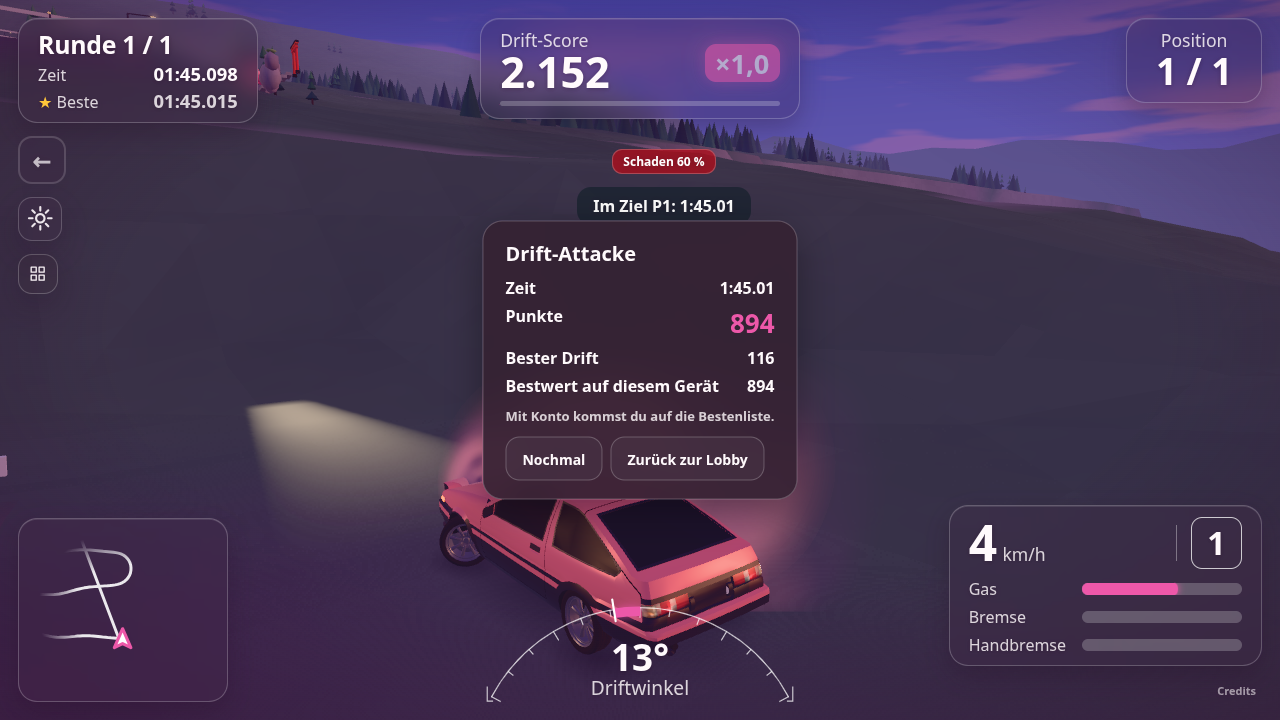
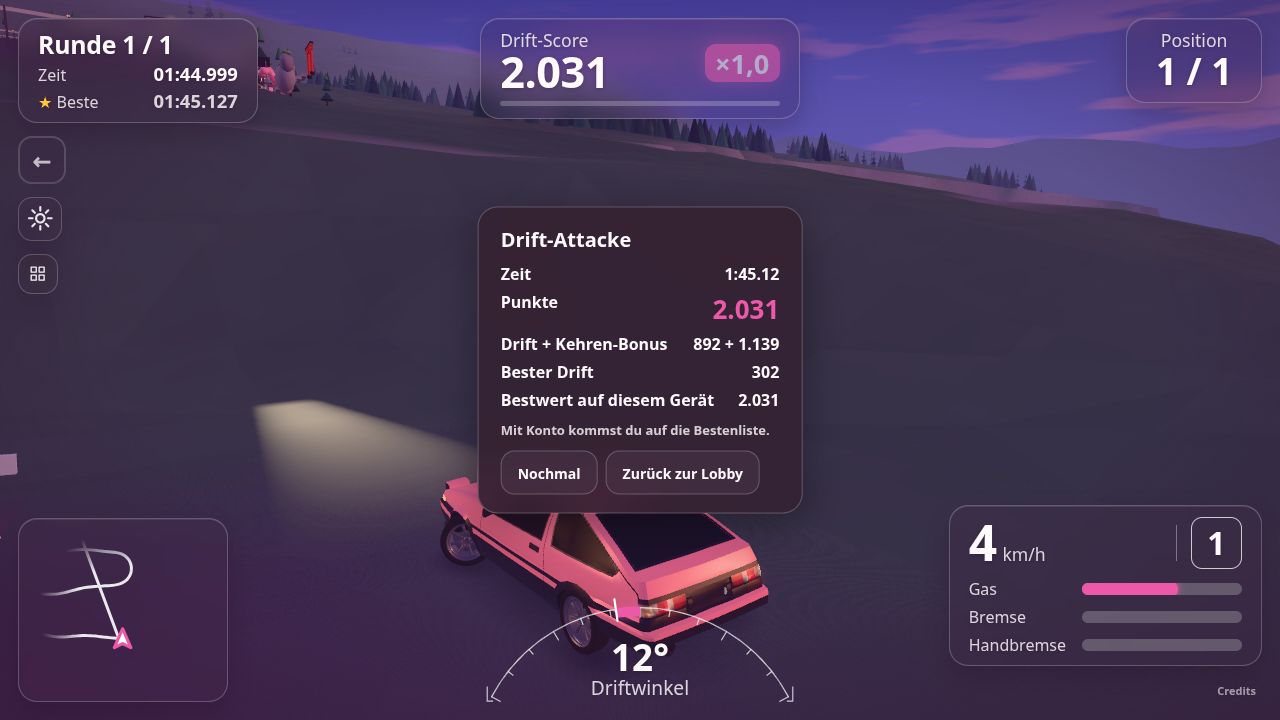
One number for a mode run: the server counts the clipping points' bonus (ZoneScore), the HUD follows the server's count in a mode run, the card explains it; only the card shows while it is open; STATE

diff --git a/game/main.js b/game/main.js
@@ -47,12 +47,12 @@ let creative = false, chDef = null, chRun = null, chStarted = false, chServer = 
 const de = params.get('lang') ? params.get('lang') === 'de' : navigator.language?.startsWith('de');
 const T = {
   en: { drift: 'DRIFT', score: 'Score', lost: 'Lost!', hand: 'HAND', brake: 'BRAKE', gas: 'GAS', rotate: 'Turn your phone to landscape', tip: 'Hold GAS, steer with the arrows, tap HAND to throw the tail out',
-    online: 'driving here', solo: 'Time trial', newDrift: 'new best drift', reset: 'Restart', tunedMark: 'tuned', paint: 'Paint', modesTitle: 'Game mode', modesSub: 'Choose how you drive the touge.', modesOpen: 'Modes (N)', modeFree: 'Free driving', modeFreeText: 'Drive about and meet the others on the plaza; the lobby.', modeDriftText: 'One run down the touge for points: clip the hairpins, hold the slide, keep the chain.', modeTimeText: 'The same run against the clock: the walls count.', modeTandemText: 'Two runs with a partner: first you lead, then you chase.', modeTrainingText: 'The ghost of your best run drives ahead; chase it.', modeStart: 'Start', modeBest: 'Best', modeClose: 'Close', modeSolo: 'Solo', modeTwo: 'Two players', modeOnline: 'Online', modeNone: 'not yet', cones: 'Cones', practiceGround: 'Practice ground', mapWinter: 'Winter pass', mapAutumn: 'Autumn drift course', toLobby: 'Back to the lobby', physNew: 'Hills: on', physOld: 'Hills: off', physKey: 'Physics that feels slopes (new) or the flat one (tap to switch)', camPreset_near: 'View: close', camPreset_follow: 'View: behind', camPreset_far: 'View: far', camPreset_top: 'View: from above', camFollowOn: 'Camera comes back by itself', camFollowOff: 'Camera stays where you put it', camDrag: 'Drag to turn the view, wheel to zoom', ctlTouch: 'Controls: touch (tap for keyboard)', ctlPc: 'Controls: keyboard (tap for touch)', modeTraining: 'Training', ghostBest: 'Ghost (your best run)', ghostDiff: 'Difference', newGhost: 'New ghost saved', ghostNone: 'No ghost yet: this run becomes it', ghostBot: 'The practice bot drives ahead. Your run becomes your own ghost.', ghostBotName: 'Practice bot', modeTandem: 'Tandem', tandemNone: 'Nobody near you: drive up to another car first', tandemSent: 'Invitation sent to {to}', tandemInvite: '{by} asks you for a tandem in two runs', tandemNo_gone: 'That driver is not here any more', tandemNo_busy: 'That driver is busy', tandemNo_declined: 'Declined', tandemNo_timeout: 'No answer', tandemEnd_left: 'Your partner left', tandemEnd_cancelled: 'Tandem ended', tandemSoon: 'Tandem starts in {s}', tandemRound: 'Round {r} of 2', tandemLead: 'You lead', tandemChase: 'You chase', tandemSwap: 'Swap! Next round: {role}', tandemPts: '{n} points', tandemPair: 'Pair', tandemWith: 'With {name}', tandemYou: 'you', tandemThem: 'partner', deviceBest: 'Best on this device', withAccount: 'With an account you get on the board.', nameAsk: 'Your name (shown as "Name (Guest)")', modeDrift: 'Drift attack', modeTime: 'Time attack', again: 'Again', board: 'Best runs', privateSession: 'Private session', run: 'Run finished', sumTime: 'Time', sumPoints: 'Points', sumClips: 'Clipping points', sumBest: 'Best drift', clip: 'CLIP', zone: 'Zone', slip: 'Angle', best: 'Best drift', you: 'You are', race: 'Start a race', invite: '{by} starts a race on {map} ({laps} laps).', join: 'Join', no: 'No', waiting: 'Invitation sent: the race starts in a few seconds.', joined: 'You are in. Get ready.', busy: 'A race is on right now.', pause: 'The next race can start in {s} s.', getReady: 'Get ready', waitOthers: 'Waiting for the others', go: 'GO!', lap: 'Lap', finished: 'Finished', result: 'Result', dnf: 'DNF', newBest: 'new best', leave: 'Leave', backLobby: 'Back to the lobby', dropped: 'You were dropped. Tap to rejoin.', full: 'The world is full right now. Tap to try again.',
+    online: 'driving here', solo: 'Time trial', newDrift: 'new best drift', reset: 'Restart', tunedMark: 'tuned', paint: 'Paint', sumZones: 'Drift + hairpin bonus', modesTitle: 'Game mode', modesSub: 'Choose how you drive the touge.', modesOpen: 'Modes (N)', modeFree: 'Free driving', modeFreeText: 'Drive about and meet the others on the plaza; the lobby.', modeDriftText: 'One run down the touge for points: clip the hairpins, hold the slide, keep the chain.', modeTimeText: 'The same run against the clock: the walls count.', modeTandemText: 'Two runs with a partner: first you lead, then you chase.', modeTrainingText: 'The ghost of your best run drives ahead; chase it.', modeStart: 'Start', modeBest: 'Best', modeClose: 'Close', modeSolo: 'Solo', modeTwo: 'Two players', modeOnline: 'Online', modeNone: 'not yet', cones: 'Cones', practiceGround: 'Practice ground', mapWinter: 'Winter pass', mapAutumn: 'Autumn drift course', toLobby: 'Back to the lobby', physNew: 'Hills: on', physOld: 'Hills: off', physKey: 'Physics that feels slopes (new) or the flat one (tap to switch)', camPreset_near: 'View: close', camPreset_follow: 'View: behind', camPreset_far: 'View: far', camPreset_top: 'View: from above', camFollowOn: 'Camera comes back by itself', camFollowOff: 'Camera stays where you put it', camDrag: 'Drag to turn the view, wheel to zoom', ctlTouch: 'Controls: touch (tap for keyboard)', ctlPc: 'Controls: keyboard (tap for touch)', modeTraining: 'Training', ghostBest: 'Ghost (your best run)', ghostDiff: 'Difference', newGhost: 'New ghost saved', ghostNone: 'No ghost yet: this run becomes it', ghostBot: 'The practice bot drives ahead. Your run becomes your own ghost.', ghostBotName: 'Practice bot', modeTandem: 'Tandem', tandemNone: 'Nobody near you: drive up to another car first', tandemSent: 'Invitation sent to {to}', tandemInvite: '{by} asks you for a tandem in two runs', tandemNo_gone: 'That driver is not here any more', tandemNo_busy: 'That driver is busy', tandemNo_declined: 'Declined', tandemNo_timeout: 'No answer', tandemEnd_left: 'Your partner left', tandemEnd_cancelled: 'Tandem ended', tandemSoon: 'Tandem starts in {s}', tandemRound: 'Round {r} of 2', tandemLead: 'You lead', tandemChase: 'You chase', tandemSwap: 'Swap! Next round: {role}', tandemPts: '{n} points', tandemPair: 'Pair', tandemWith: 'With {name}', tandemYou: 'you', tandemThem: 'partner', deviceBest: 'Best on this device', withAccount: 'With an account you get on the board.', nameAsk: 'Your name (shown as "Name (Guest)")', modeDrift: 'Drift attack', modeTime: 'Time attack', again: 'Again', board: 'Best runs', privateSession: 'Private session', run: 'Run finished', sumTime: 'Time', sumPoints: 'Points', sumClips: 'Clipping points', sumBest: 'Best drift', clip: 'CLIP', zone: 'Zone', slip: 'Angle', best: 'Best drift', you: 'You are', race: 'Start a race', invite: '{by} starts a race on {map} ({laps} laps).', join: 'Join', no: 'No', waiting: 'Invitation sent: the race starts in a few seconds.', joined: 'You are in. Get ready.', busy: 'A race is on right now.', pause: 'The next race can start in {s} s.', getReady: 'Get ready', waitOthers: 'Waiting for the others', go: 'GO!', lap: 'Lap', finished: 'Finished', result: 'Result', dnf: 'DNF', newBest: 'new best', leave: 'Leave', backLobby: 'Back to the lobby', dropped: 'You were dropped. Tap to rejoin.', full: 'The world is full right now. Tap to try again.',
     keysSoft: 'Keyboard: soft (gas and steering build up)', keysDirect: 'Keyboard: direct (all or nothing)', leverOn: 'Mouse throttle lever on (L): wheel or drag up and down; the brake resets it', leverOff: 'Mouse throttle lever off (L)', volume: 'Volume', musicVolume: 'Music volume', nowPlaying: 'Music: {t} by {a} ({l})', quality: 'Graphics', camChase: 'Chase camera', camBonnet: 'Bonnet camera', camCockpit: 'Cockpit camera', padOn: 'Controller: stick steers, right trigger gas, left trigger brake, A handbrake, Y camera, X restart', padOff: 'Controller unplugged: paused', creativeOn: 'Creative mode on (K): no scores count, no damage', creativeOff: 'Creative mode off (K)', creativeBanner: 'CREATIVE: scores do not count', creativeChip: 'Creative', damageLabel: 'Damage', damageOn: 'Damage on (V)', damageOff: 'Damage off (V)', soundOn: 'Sound on (M)', soundOff: 'Sound off (M)', musicOff: 'Music: off', musicOn: 'Music: on', chLap: 'Set a clean lap in a race or time trial', chDone: 'Challenge finished', chConfirmed: 'confirmed', chFailed: 'ended by a hit', chTitle: 'Challenge',
     feelArcade: 'Arcade', feelPro: 'Pro (fewer aids)', feelKey: 'Feel of driving (X)', tandem: 'Tandem', lead: 'Lead', chase: 'Chase', side: 'Side by side', tandemBank: 'Tandem bonus', practiceBot: 'Practice bot (B)',
     hintKeys: 'Arrows or WASD to drive, Space = handbrake, Shift = brake, R = restart, F = fullscreen' },
   de: { drift: 'DRIFT', score: 'Punkte', lost: 'Verloren!', hand: 'HAND', brake: 'BREMSE', gas: 'GAS', rotate: 'Dreh das Handy ins Querformat', tip: 'GAS halten, mit den Pfeilen lenken, HAND wirft das Heck raus',
-    online: 'fahren hier', solo: 'Zeitfahren', newDrift: 'neuer bester Drift', reset: 'Neu starten', tunedMark: 'getunt', paint: 'Lack', modesTitle: 'Spielmodus', modesSub: 'Wähle, wie du die Touge fährst.', modesOpen: 'Modi (N)', modeFree: 'Freies Fahren', modeFreeText: 'Fahr herum und triff die anderen auf dem Platz; die Lobby.', modeDriftText: 'Ein Lauf die Touge hinunter auf Punkte: Kehren anfahren, Drift halten, Kette bewahren.', modeTimeText: 'Derselbe Lauf auf Zeit: die Wände zählen.', modeTandemText: 'Zwei Läufe mit einem Partner: erst führst du, dann jagst du.', modeTrainingText: 'Der Geist deiner besten Fahrt fährt voraus; fahr hinterher.', modeStart: 'Start', modeBest: 'Bestwert', modeClose: 'Schließen', modeSolo: 'Allein', modeTwo: 'Zu zweit', modeOnline: 'Online', modeNone: 'noch keiner', cones: 'Kegel', practiceGround: 'Übungsplatz', mapWinter: 'Winterpass', mapAutumn: 'Herbst-Driftkurs', toLobby: 'Zur Lobby', physNew: 'Gefälle: an', physOld: 'Gefälle: aus', physKey: 'Physik, die Gefälle spürt (neu), oder die flache (tippen zum Wechseln)', camPreset_near: 'Ansicht: nah', camPreset_follow: 'Ansicht: hinten', camPreset_far: 'Ansicht: weit', camPreset_top: 'Ansicht: von oben', camFollowOn: 'Kamera kehrt von selbst zurück', camFollowOff: 'Kamera bleibt, wo du sie hinstellst', camDrag: 'Ziehen dreht die Ansicht, Rad zoomt', ctlTouch: 'Steuerung: Touch (tippen für Tastatur)', ctlPc: 'Steuerung: Tastatur (tippen für Touch)', modeTraining: 'Training', ghostBest: 'Geist (deine beste Fahrt)', ghostDiff: 'Unterschied', newGhost: 'Neuer Geist gespeichert', ghostNone: 'Noch kein Geist: diese Fahrt wird er', ghostBot: 'Der Übungs-Bot fährt voraus. Deine Fahrt wird dein eigener Geist.', ghostBotName: 'Übungs-Bot', modeTandem: 'Tandem', tandemNone: 'Niemand in der Nähe: fahr erst zu einem anderen Auto', tandemSent: 'Einladung an {to} geschickt', tandemInvite: '{by} lädt dich zum Tandem in zwei Durchgängen ein', tandemNo_gone: 'Der Fahrer ist nicht mehr da', tandemNo_busy: 'Der Fahrer ist beschäftigt', tandemNo_declined: 'Abgelehnt', tandemNo_timeout: 'Keine Antwort', tandemEnd_left: 'Dein Partner ist gegangen', tandemEnd_cancelled: 'Tandem beendet', tandemSoon: 'Tandem startet in {s}', tandemRound: 'Runde {r} von 2', tandemLead: 'Du fährst vorn', tandemChase: 'Du folgst', tandemSwap: 'Tausch! Nächste Runde: {role}', tandemPts: '{n} Punkte', tandemPair: 'Paar', tandemWith: 'Mit {name}', tandemYou: 'du', tandemThem: 'Partner', deviceBest: 'Bestwert auf diesem Gerät', withAccount: 'Mit Konto kommst du auf die Bestenliste.', nameAsk: 'Dein Name (wird als "Name (Gast)" gezeigt)', modeDrift: 'Drift-Attacke', modeTime: 'Zeitjagd', again: 'Nochmal', board: 'Beste Läufe', privateSession: 'Private Runde', run: 'Lauf beendet', sumTime: 'Zeit', sumPoints: 'Punkte', sumClips: 'Clipping-Punkte', sumBest: 'Bester Drift', clip: 'CLIP', zone: 'Zone', slip: 'Winkel', best: 'Bester Drift', you: 'Du bist', race: 'Rennen starten', invite: '{by} startet ein Rennen auf {map} ({laps} Runden).', join: 'Mitfahren', no: 'Nein', waiting: 'Einladung verschickt: das Rennen startet in ein paar Sekunden.', joined: 'Du bist dabei. Mach dich bereit.', busy: 'Gerade läuft ein Rennen.', pause: 'Das nächste Rennen geht in {s} s.', getReady: 'Mach dich bereit', waitOthers: 'Warte auf die anderen', go: 'LOS!', lap: 'Runde', finished: 'Im Ziel', result: 'Ergebnis', dnf: 'Ausgeschieden', newBest: 'neue Bestzeit', leave: 'Verlassen', backLobby: 'Zurück zur Lobby', dropped: 'Du wurdest getrennt. Tippen zum Zurückkehren.', full: 'Die Welt ist gerade voll. Tippen zum Erneut-Versuchen.',
+    online: 'fahren hier', solo: 'Zeitfahren', newDrift: 'neuer bester Drift', reset: 'Neu starten', tunedMark: 'getunt', paint: 'Lack', sumZones: 'Drift + Kehren-Bonus', modesTitle: 'Spielmodus', modesSub: 'Wähle, wie du die Touge fährst.', modesOpen: 'Modi (N)', modeFree: 'Freies Fahren', modeFreeText: 'Fahr herum und triff die anderen auf dem Platz; die Lobby.', modeDriftText: 'Ein Lauf die Touge hinunter auf Punkte: Kehren anfahren, Drift halten, Kette bewahren.', modeTimeText: 'Derselbe Lauf auf Zeit: die Wände zählen.', modeTandemText: 'Zwei Läufe mit einem Partner: erst führst du, dann jagst du.', modeTrainingText: 'Der Geist deiner besten Fahrt fährt voraus; fahr hinterher.', modeStart: 'Start', modeBest: 'Bestwert', modeClose: 'Schließen', modeSolo: 'Allein', modeTwo: 'Zu zweit', modeOnline: 'Online', modeNone: 'noch keiner', cones: 'Kegel', practiceGround: 'Übungsplatz', mapWinter: 'Winterpass', mapAutumn: 'Herbst-Driftkurs', toLobby: 'Zur Lobby', physNew: 'Gefälle: an', physOld: 'Gefälle: aus', physKey: 'Physik, die Gefälle spürt (neu), oder die flache (tippen zum Wechseln)', camPreset_near: 'Ansicht: nah', camPreset_follow: 'Ansicht: hinten', camPreset_far: 'Ansicht: weit', camPreset_top: 'Ansicht: von oben', camFollowOn: 'Kamera kehrt von selbst zurück', camFollowOff: 'Kamera bleibt, wo du sie hinstellst', camDrag: 'Ziehen dreht die Ansicht, Rad zoomt', ctlTouch: 'Steuerung: Touch (tippen für Tastatur)', ctlPc: 'Steuerung: Tastatur (tippen für Touch)', modeTraining: 'Training', ghostBest: 'Geist (deine beste Fahrt)', ghostDiff: 'Unterschied', newGhost: 'Neuer Geist gespeichert', ghostNone: 'Noch kein Geist: diese Fahrt wird er', ghostBot: 'Der Übungs-Bot fährt voraus. Deine Fahrt wird dein eigener Geist.', ghostBotName: 'Übungs-Bot', modeTandem: 'Tandem', tandemNone: 'Niemand in der Nähe: fahr erst zu einem anderen Auto', tandemSent: 'Einladung an {to} geschickt', tandemInvite: '{by} lädt dich zum Tandem in zwei Durchgängen ein', tandemNo_gone: 'Der Fahrer ist nicht mehr da', tandemNo_busy: 'Der Fahrer ist beschäftigt', tandemNo_declined: 'Abgelehnt', tandemNo_timeout: 'Keine Antwort', tandemEnd_left: 'Dein Partner ist gegangen', tandemEnd_cancelled: 'Tandem beendet', tandemSoon: 'Tandem startet in {s}', tandemRound: 'Runde {r} von 2', tandemLead: 'Du fährst vorn', tandemChase: 'Du folgst', tandemSwap: 'Tausch! Nächste Runde: {role}', tandemPts: '{n} Punkte', tandemPair: 'Paar', tandemWith: 'Mit {name}', tandemYou: 'du', tandemThem: 'Partner', deviceBest: 'Bestwert auf diesem Gerät', withAccount: 'Mit Konto kommst du auf die Bestenliste.', nameAsk: 'Dein Name (wird als "Name (Gast)" gezeigt)', modeDrift: 'Drift-Attacke', modeTime: 'Zeitjagd', again: 'Nochmal', board: 'Beste Läufe', privateSession: 'Private Runde', run: 'Lauf beendet', sumTime: 'Zeit', sumPoints: 'Punkte', sumClips: 'Clipping-Punkte', sumBest: 'Bester Drift', clip: 'CLIP', zone: 'Zone', slip: 'Winkel', best: 'Bester Drift', you: 'Du bist', race: 'Rennen starten', invite: '{by} startet ein Rennen auf {map} ({laps} Runden).', join: 'Mitfahren', no: 'Nein', waiting: 'Einladung verschickt: das Rennen startet in ein paar Sekunden.', joined: 'Du bist dabei. Mach dich bereit.', busy: 'Gerade läuft ein Rennen.', pause: 'Das nächste Rennen geht in {s} s.', getReady: 'Mach dich bereit', waitOthers: 'Warte auf die anderen', go: 'LOS!', lap: 'Runde', finished: 'Im Ziel', result: 'Ergebnis', dnf: 'Ausgeschieden', newBest: 'neue Bestzeit', leave: 'Verlassen', backLobby: 'Zurück zur Lobby', dropped: 'Du wurdest getrennt. Tippen zum Zurückkehren.', full: 'Die Welt ist gerade voll. Tippen zum Erneut-Versuchen.',
     keysSoft: 'Tastatur: weich (Gas und Lenken bauen sich auf)', keysDirect: 'Tastatur: direkt (alles oder nichts)', leverOn: 'Maus-Gashebel an (L): Rad oder Ziehen nach oben und unten; die Bremse setzt ihn zur\u00fcck', leverOff: 'Maus-Gashebel aus (L)', volume: 'Lautstärke', musicVolume: 'Musik-Lautstärke', nowPlaying: 'Musik: {t} von {a} ({l})', quality: 'Grafik', camChase: 'Verfolgerkamera', camBonnet: 'Hauben-Kamera', camCockpit: 'Cockpit-Kamera', padOn: 'Controller: Stick lenkt, rechter Trigger Gas, linker Trigger Bremse, A Handbremse, Y Kamera, X Neustart', padOff: 'Controller getrennt: Pause', creativeOn: 'Kreativ-Modus an (K): keine Wertung, kein Schaden', creativeOff: 'Kreativ-Modus aus (K)', creativeBanner: 'KREATIV: nichts davon z\u00e4hlt', creativeChip: 'Kreativ', damageLabel: 'Schaden', damageOn: 'Schaden an (V)', damageOff: 'Schaden aus (V)', soundOn: 'Ton an (M)', soundOff: 'Ton aus (M)', musicOff: 'Musik: aus', musicOn: 'Musik: an', chLap: 'Fahr im Rennen oder Zeitfahren eine saubere Runde', chDone: 'Herausforderung beendet', chConfirmed: 'bestätigt', chFailed: 'durch einen Treffer beendet', chTitle: 'Herausforderung',
     feelArcade: 'Arcade', feelPro: 'Pro (weniger Hilfen)', feelKey: 'Fahrgef\u00fchl (X)', tandem: 'Tandem', lead: 'Vorne', chase: 'Hinterher', side: 'Nebeneinander', tandemBank: 'Tandem-Bonus', practiceBot: '\u00dcbungs-Bot (B)',
     hintKeys: 'Pfeile oder WASD fahren, Leertaste = Handbremse, Shift = Bremse, R = neu starten, F = Vollbild' },
@@ -169,7 +169,7 @@ if (params.get('races') === '1') document.body.classList.add('races');
 let runMode = null, pendingMode = null;   // 'drift' | 'time' | null: the mode of the run that is on or about to start   // the signed-in app: races (the public demo has none)
 const lobbyUrl = params.get('ws') || `${location.protocol === 'https:' ? 'wss' : 'ws'}://${location.host}/ws?car=${carIndex}${glowHue !== null ? '&glow=' + glowHue : ''}`;
 const fmt = (ms) => { const t = Math.max(0, Math.round(ms)); return `${Math.floor(t / 60000)}:${String(Math.floor(t / 1000) % 60).padStart(2, '0')}.${String(Math.floor((t % 1000) / 10)).padStart(2, '0')}`; };
-const show = (id, on) => { const el = $(id); if (el) el.hidden = !on; };
+const show = (id, on) => { const el = $(id); if (el) el.hidden = !on; if (id === 'result') document.body.classList.toggle('card-open', !!on); };   // (a card open: only the card, see game.css)
 let noteTimer = 0;
 const note = (text) => { const el = $('note'); if (!el) return; el.textContent = text; el.hidden = false; clearTimeout(noteTimer); noteTimer = setTimeout(() => (el.hidden = true), 3500); };
 
@@ -397,6 +397,9 @@ function startRace() {
 }
 // ----- the ghost: every run of the time modes is recorded; the best one is kept on this device. In training it drives again, see-through, and the time ahead or behind it is shown.
 const GHOST_KEY = 'drift.ghost.2';   // (2: the touge of the track system; a ghost of the old road does not fit)
+// the points of a mode run: the server's count is the one that counts (it also decides the board); the HUD adds what the page counted since the last message of the server's to it, so the number
+// on the card at the end is the number the HUD showed
+const runPts = { offset: 0 };
 let ghostBotRun = false, ghostRec = null, ghostPlay = null, ghostCar = null, ghostRun = false, ghostT = 0, ghostPrevMs = null, ghostNew = false;
 const ghostLoad = () => { try { const d = JSON.parse(localStorage.getItem(GHOST_KEY)); if (d && Array.isArray(d.v) && d.v.length > 30 && d.ms > 0) return d; } catch { /* nothing kept, or broken */ } return null; };
 function ghostStart() {
@@ -434,6 +437,7 @@ function raceMessage(j) {
   } else if (j.t === 'count') $('count').textContent = j.n;
   else if (j.t === 'go') { ghostRun = ghostRec !== null; locked = false; $('count').textContent = T.go; setTimeout(() => show('count', false), 900); }
   else if (j.t === 'prog') {
+    if (runMode === 'drift' || runMode === 'time') runPts.offset = j.drift - (score.banked + score.pending);   // the run's points are the server's: our own count follows it from here (see the HUD below)
     Object.assign(raceInfo, { pos: j.pos, of: j.of, lap: j.lap, laps: j.laps, ms: j.ms });
     $('rh-pos').textContent = `P${j.pos}/${j.of}`; $('rh-lap').textContent = `${T.lap} ${j.lap}/${j.laps}`; $('rh-time').textContent = fmt(j.ms);
     $('rh-drift').textContent = j.drift ? `${j.drift} x${j.mult}` : '';
@@ -446,7 +450,7 @@ function raceMessage(j) {
 function startMode(kind) {
   if (kind === 'tandem') { tandemInvite(); return; }
   if (!raceMode || racing || !net || !net.connected) return;
-  runMode = kind;
+  runMode = kind; runPts.offset = 0;
   net.sendJson({ t: 'race.start', map: 0, laps: 1, solo: true, ...(kind === 'training' ? { train: true } : {}) });
 }
 /** The result of a mode: the numbers of the run and the board of this mode (best run times, or the points of a whole run). */
@@ -459,7 +463,8 @@ async function showModeResult(j, kind = runMode) {
   const row = (k, v, cls) => { const r = document.createElement('div'); r.className = cls ?? ''; const a = document.createElement('span'), b = document.createElement('b'); a.textContent = k; b.textContent = v; r.append(a, b); return r; };
   const nf = (n) => Number(n).toLocaleString(de ? 'de-DE' : 'en-GB');
   const isNew = time ? mine.newLap || mine.newRace : mine.newAttack;
-  box.replaceChildren(row(T.sumTime, mine.ms == null ? T.dnf : fmt(mine.ms), time ? 'main' : ''), row(T.sumPoints, nf(mine.drift), time ? '' : 'main'), row(T.sumBest, nf(mine.bestDrift)));
+  runPts.offset = mine.drift - (score.banked + score.pending);   // the HUD under the card shows the card's number
+  box.replaceChildren(row(T.sumTime, mine.ms == null ? T.dnf : fmt(mine.ms), time ? 'main' : ''), row(T.sumPoints, nf(mine.drift), time ? '' : 'main'), ...(mine.zones > 0 ? [row(T.sumZones, `${nf(mine.drift - mine.zones)} + ${nf(mine.zones)}`)] : []), row(T.sumBest, nf(mine.bestDrift)));
   if (train) {
     const diff = ghostPrevMs && mine.ms ? (mine.ms - ghostPrevMs) / 1000 : null;
     box.replaceChildren(row(T.sumTime, mine.ms == null ? T.dnf : fmt(mine.ms), 'main'), row(ghostBotRun ? T.ghostBotName : T.ghostBest, ghostPrevMs ? fmt(ghostPrevMs) : '-'), ...(diff === null ? [] : [row(T.ghostDiff, (diff >= 0 ? '+' : '\u2212') + Math.abs(diff).toFixed(2).replace('.', de ? ',' : '.') + ' s', diff < 0 ? 'ahead' : 'behind')]));
@@ -974,7 +979,7 @@ function frame(now) {
   // the HUD: cards for free driving or the race
   if (!paused) freeMs += dt * 1000;
   const raceCard = racing ? { ...raceInfo, best: bestLap } : { free: true, online: onlineCount, ms: freeMs, bestDrift, name: meName ? (isPrivate ? `${meName} \u00b7 ${T.privateSession}` : meName) : (isPrivate ? T.privateSession : '') };
-  hud.update(raceCard, { kmh, forward: Math.sign(vf) || 1, slip: bodySlip(cur), x: X(drawn.x), z: drawn.z, h: drawn.h }, lastInp, { ...score, event: lastEvent },
+  hud.update(raceCard, { kmh, forward: Math.sign(vf) || 1, slip: bodySlip(cur), x: X(drawn.x), z: drawn.z, h: drawn.h }, lastInp, { ...score, banked: (runMode === 'drift' || runMode === 'time') && racing ? Math.max(0, score.banked + runPts.offset) : score.banked, event: lastEvent },
     net ? net.sample(now).filter((o) => !o.far).map((o) => [X(o.x), o.z]) : [], paused ? 0 : dt);
   lastEvent = null;
   if (zoneNote) { hud.toast(`${zoneNote.clean ? T.clip : T.zone} +${zoneNote.points}`, 'bank'); zoneNote = null; }

diff --git a/game/game.css b/game/game.css
@@ -148,3 +148,6 @@ body.touch #modes .modes-pic { aspect-ratio: 16 / 9; padding: 6px; }
 body.touch #modes .modes-text { font-size: 11.5px; }
 #modes-open { display: grid; place-items: center; width: 40px; height: 40px; border-radius: 14px; border: 1px solid var(--glass-edge); background: var(--glass); color: var(--white); box-shadow: var(--shadow); pointer-events: auto; cursor: pointer; }
 #modes-open .icon { width: 1.3em; height: 1.3em; }
+
+/* while a result card is open only the card shows: no damage note, message, toast or hint stacked over it */
+body.card-open #damage, body.card-open #note, body.card-open .p-toast, body.card-open #tip, body.card-open #hint, body.card-open #count { display: none !important; }

diff --git a/src/Drift/Race/ZoneScore.cs b/src/Drift/Race/ZoneScore.cs
@@ -1,0 +1,41 @@
+namespace Drift.Race;
+
+/// <summary>
+/// The clipping points of a map (game/sim/zones.js, the same rules): a drift through the zone round a point pays a bonus for the angle and the speed, more the closer the car
+/// came to the point, half as much again for a clean clip (within 1.5 m); each point pays once per run, when the car leaves its zone. The server judges it on the poses it
+/// gets (about 15 a second: the closest pose counts, so a clean clip can be missed by a little). The bonus is added to the pending points of the drift chain by the caller.
+/// </summary>
+public sealed class ZoneScore(IReadOnlyList<(double X, double Z, double R)> clips)
+{
+    public const double Radius = 9, Clip = 1.5, ClipFactor = 1.5, MinSlip = 0.26, MinSpeed = 8, Rate = 50;
+    /// <summary>The server's own ceiling for one clipping point (a perfect pass pays about 3000).</summary>
+    public const double MaxPerPoint = 4000;
+    readonly bool[] paid = new bool[clips.Count];
+    readonly (double Value, double Dist)?[] best = new (double, double)?[clips.Count];
+
+    /// <summary>One pose: the car at (x, z) with body slip `slip` (rad) and speed. Returns the bonus that falls due in this step (0 in most).</summary>
+    public double Step(double x, double z, double slip, double speed)
+    {
+        double bonus = 0;
+        for (var i = 0; i < clips.Count; i++)
+        {
+            if (paid[i]) continue;
+            var c = clips[i]; var d = double.Hypot(x - c.X, z - c.Z); var r = c.R > 0 ? c.R : Radius;
+            var drifting = Math.Abs(slip) > MinSlip && speed > MinSpeed;
+            if (d <= r)
+            {
+                if (drifting)
+                {
+                    var value = speed * 3.6 / 10 * (Math.Abs(slip) * (180 / Math.PI) / 10) * Rate * (1 - d / r);
+                    if (best[i] is not { } b || value > b.Value) best[i] = (value, d);
+                }
+            }
+            else if (best[i] is { } b)
+            {
+                paid[i] = true;
+                bonus += Math.Min(MaxPerPoint, Math.Round(b.Value * (b.Dist <= Clip ? ClipFactor : 1)));
+            }
+        }
+        return bonus;
+    }
+}

diff --git a/src/Drift/Race/RaceTrack.cs b/src/Drift/Race/RaceTrack.cs
@@ -44,6 +44,9 @@ public sealed class RaceTrack
     /// <summary>The version of the road: 1 = a map from before the track system, 2 = a road of the track system (the map file's `track.version`). Pages say which they drive on, boards are kept apart by it.</summary>
     public int RoadVersion { get; init; } = 1;
 
+    /// <summary>The clipping points of the map (`clips`: x, z and an optional zone radius): a drift through the zone round one pays a bonus (ZoneScore).</summary>
+    public IReadOnlyList<(double X, double Z, double R)> Clips { get; init; } = [];
+
     /// <summary>The revision of a road of the track system whose shape was changed afterwards (the map file's `track.rev`, 0 when it never was): bests of another revision are another board.</summary>
     public int Rev { get; init; }
 
@@ -70,6 +73,7 @@ public sealed class RaceTrack
             HalfX = b.Max(p => Math.Abs(p.X)) + 3, HalfZ = b.Max(p => Math.Abs(p.Z)) + 3,
             Segments = Segs(r),
             Open = r.TryGetProperty("closed", out var cl) && cl.ValueKind == JsonValueKind.False,
+            Clips = r.TryGetProperty("clips", out var cp) && cp.ValueKind == JsonValueKind.Array ? [.. cp.EnumerateArray().Select(c => (N(c.GetProperty("x")), N(c.GetProperty("z")), c.TryGetProperty("r", out var cr) ? N(cr) : 0.0))] : [],
             Rev = r.TryGetProperty("track", out var tr) && tr.ValueKind == JsonValueKind.Object && tr.TryGetProperty("rev", out var rv) && rv.TryGetInt32(out var rev) ? rev : 0,
             RoadVersion = r.TryGetProperty("track", out var tk) && tk.ValueKind == JsonValueKind.Object && tk.TryGetProperty("version", out var tv) && tv.TryGetInt32(out var ver) ? ver : 1,
             Spawn = r.TryGetProperty("lobbySpawn", out var sp) && sp.ValueKind == JsonValueKind.Object ? (N(sp.GetProperty("x")), N(sp.GetProperty("z"))) : null,

diff --git a/src/Drift/Race/RaceRun.cs b/src/Drift/Race/RaceRun.cs
@@ -26,6 +26,9 @@ public sealed class Runner(Guid person, string name, int car, int hue, double to
     public bool Dnf { get; set; }
     public double Progress { get; internal set; }
     public DriftScore Drift { get; } = new();
+    /// <summary>The clipping points of the map, judged on the poses (null until the first pose), and the bonus they have paid into the chain so far.</summary>
+    internal ZoneScore? Zones;
+    public double ZonePoints { get; internal set; }
     internal double LapStart;
     internal bool HasLast;
     internal double LastX, LastZ, LastT;
@@ -75,6 +78,9 @@ public sealed class RaceRun(RaceTrack track, int laps)
                 var implied = double.Hypot(x - r.LastX, z - r.LastZ) / (t - r.LastT);
                 var speed = Math.Min(Math.Min(Math.Abs(vf) / Math.Max(0.3, Math.Cos(beta)), implied * 1.25 + 1), 1.15 * r.Top + 2);
                 r.Drift.Step(Math.Clamp(beta, -1.4, 1.4), speed, (flags & 4) != 0 ? 5 : 0, Math.Abs(beta), dt);
+                r.Zones ??= new ZoneScore(Track.Clips);
+                var bonus = r.Zones.Step(x, z, Math.Clamp(beta, -1.4, 1.4), speed);
+                if (bonus > 0 && r.Drift.Pending > 0) { r.Drift.AddPending(bonus); r.ZonePoints += bonus; }
             }
             if (Track.Crosses(r.NextGate, r.LastX, r.LastZ, x, z, out var at))
             {

diff --git a/tests/Drift.Tests/RaceTests.cs b/tests/Drift.Tests/RaceTests.cs
@@ -469,6 +469,7 @@ public class RaceHubTests
         var row = rig.Racing["anna"].Peer.Last("result")!.Value.GetProperty("rows").EnumerateArray().Single();
         Assert.InRange(row.GetProperty("ms").GetInt32() / 1000.0, 80, 140);                      // the road at 20 m/s
         Assert.True(row.GetProperty("drift").GetInt32() > 500, "a drifting run earns points");
+        Assert.True(row.GetProperty("zones").GetInt32() > 300 && row.GetProperty("zones").GetInt32() < row.GetProperty("drift").GetInt32(), "the clipping points of the touge paid a bonus that is part of the run's points");
         Assert.True(row.GetProperty("newAttack").GetBoolean() && row.GetProperty("newLap").GetBoolean());
         Assert.Contains(rig.Best.Written, w => w.Kind == RaceStore.Attack);                    // the points of the whole run are on the board of the mode
         Assert.Contains(rig.Best.Written, w => w.Kind == RaceStore.Lap);                       // and the time on the board of the other

diff --git a/src/Drift/Race/RaceHub.cs b/src/Drift/Race/RaceHub.cs
@@ -366,7 +366,7 @@ public sealed class RaceHub
                 pos = i + 1, name = r.Name, car = r.Car, hue = r.Hue,
                 ms = r.FinishMs is { } f ? (int?)(int)f : null,
                 bestLap = r.BestLap is { } b ? (int?)(int)b : null,
-                drift = (int)r.Drift.Total, bestDrift = (int)Math.Max(r.Drift.Best, r.Drift.Pending), newDrift = flags[r.Person].Drift,
+                drift = (int)r.Drift.Total, zones = (int)r.ZonePoints, bestDrift = (int)Math.Max(r.Drift.Best, r.Drift.Pending), newDrift = flags[r.Person].Drift,
                 points = Math.Round((r.Finished && i < PositionPoints.Length ? PositionPoints[i] : 0) + r.Drift.Total / 100, 1),
                 dnf = r.Dnf, clean = r.CleanLaps, tuned = r.Tuned, creative = r.Creative,
                 newLap = flags[r.Person].Lap, newRace = flags[r.Person].Race, newAttack = flags[r.Person].Attack,

diff --git a/src/Drift/Race/DriftScore.cs b/src/Drift/Race/DriftScore.cs
@@ -21,6 +21,9 @@ public sealed class DriftScore
     public bool Drifting { get; private set; }
     public double Best { get; private set; }
 
+    /// <summary>Points that fall due outside the drift itself (a clipping point's bonus): they join the chain in progress, so they are multiplied by it no more and lost with it on a hit.</summary>
+    public void AddPending(double points) { if (Pending > 0) Pending += points; }
+
     /// <summary>What the car has earned so far: banked plus what is still pending.</summary>
     public double Total => Banked + Pending;
 

diff --git a/docs/STATE.md b/docs/STATE.md
@@ -683,3 +683,10 @@ A static page with sample data, no server logic, no inline script; every text th
 - **Step 4, Training:** the ghost of your best run (`drift.ghost.2`), and **when you have none, the practice bot's run down the road** (`game/sim/ghostbot.js`: the track bot, computed once at the start in a tenth of a second, recorded like any ghost; the flat model with the line bot when the hills are off; `ghostbot.test.mjs`: 90 to 140 s, gets to the end, never goes back, all five cars). A note says so, the result card's row says "Übungs-Bot", and your first run becomes your own ghost. Picture with the see-through ghost ahead and "+1,7 s": `training-laeuft.png`.
 - **Step 5, Tandem in two runs** exists since the tandem block of this file (`TandemMatches`: invite the nearest car, countdown, two rounds, result; boards for the signed-in, the device for guests). New test: it works inside a private round by link (the relay's `worldKey`; people of another link's round and of the open lobby are "gone" for the inviter) and never pairs across worlds. Not tried in a browser: two guests in a link round.
 - Tests: node 240, .NET 251 pass. Play check green except the one road sample of 7 cm at the fourth hairpin (see above). `uicheck` does not see the window or the button (the static page it uses has no lobby): looked at in the pictures only.
+
+## One number for a mode run's points (the chief's review of 0c85a8c; 2026-11-26, Sonnet)
+- **Cause of 2152 against 894:** the page counted the clipping points' bonus (`game/sim/zones.js`, 1250 points in that run), the server did not (zone points were "client-only"); without the bonus both counted the same: 897 on the page's 120 steps a second, 894 on the server's 15 poses a second. Measured in Node with the same bot run (`sc.mjs` style): 120 Hz 2149 = 897 + 1250; 15 Hz base 897.
+- **Fixed on the server:** `ZoneScore` (C#, the same rules as zones.js, the closest pose counts, a ceiling of 4000 a point), the touge's `clips` read by `RaceTrack.Clips`, the bonus joins the chain in progress (`DriftScore.AddPending`, lost with it on a hit), and the result row has `zones`. **On the page:** in a mode run (Drift attack, Time attack) the HUD's score follows the server's count (`prog` every second: the page's own count since then is added on top), and at the end it takes the card's number, so the HUD and the card show ONE number. The card has a row "Drift + Kehren-Bonus 892 + 1.139" that explains how the points are made.
+- **Proven in a browser run** (105 s, bot): HUD "2.031", card "Punkte 2.031 / Drift + Kehren-Bonus 892 + 1.139". Test: the hub's mode-run test asserts that `zones` is part of the points. The server's pose rate can miss a clean clip (1.5 m) by a little, so the server's number can be a few percent under what an exact count would give; it is the one that counts (boards).
+- **While a result card is open only the card shows:** the damage note, messages, toasts and hints are hidden then (`body.card-open`).
+- Time attack has no points penalty (its card shows the time first and the points as extra), so nothing more to explain there.
